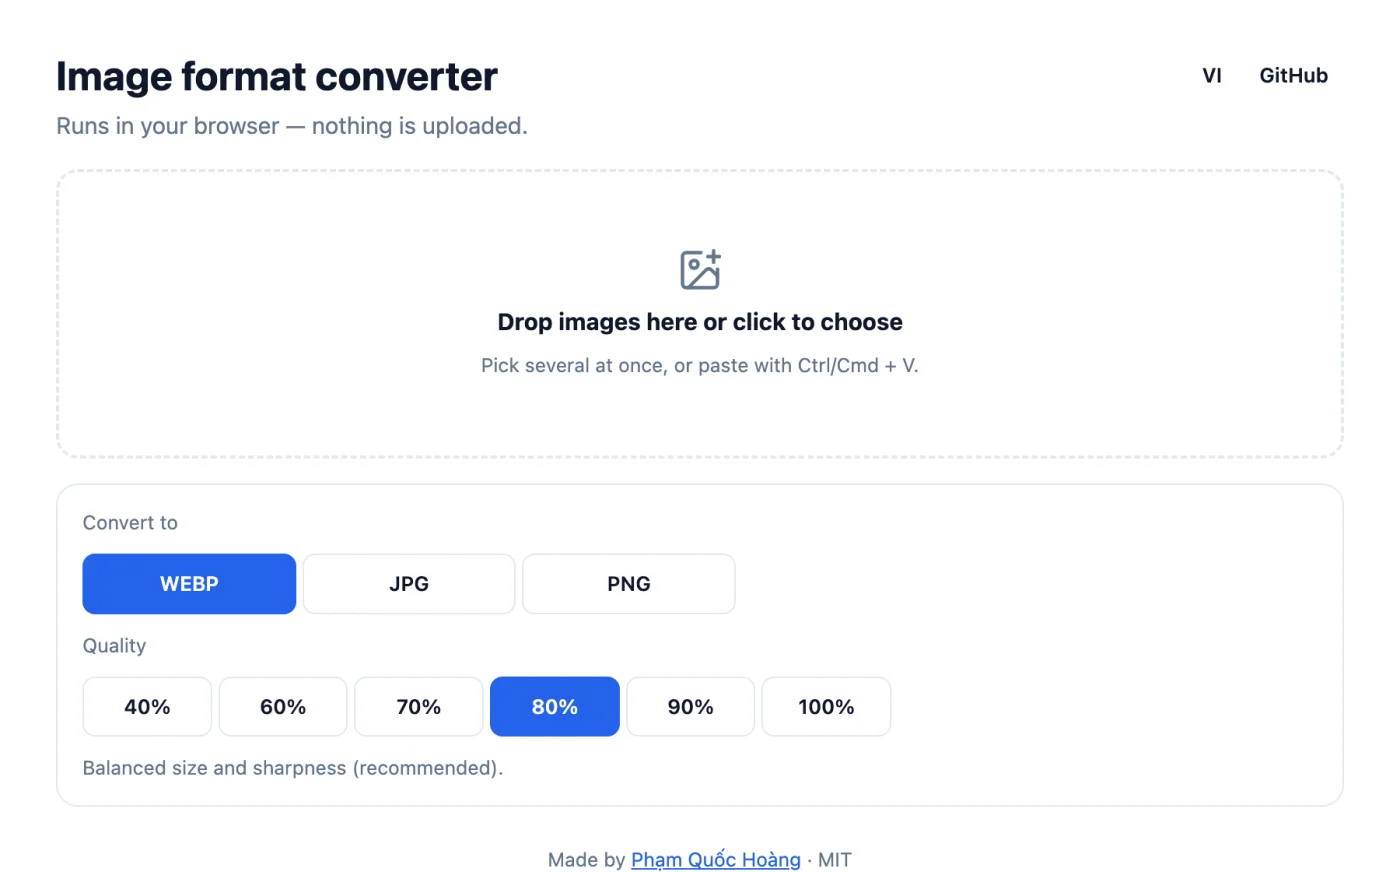
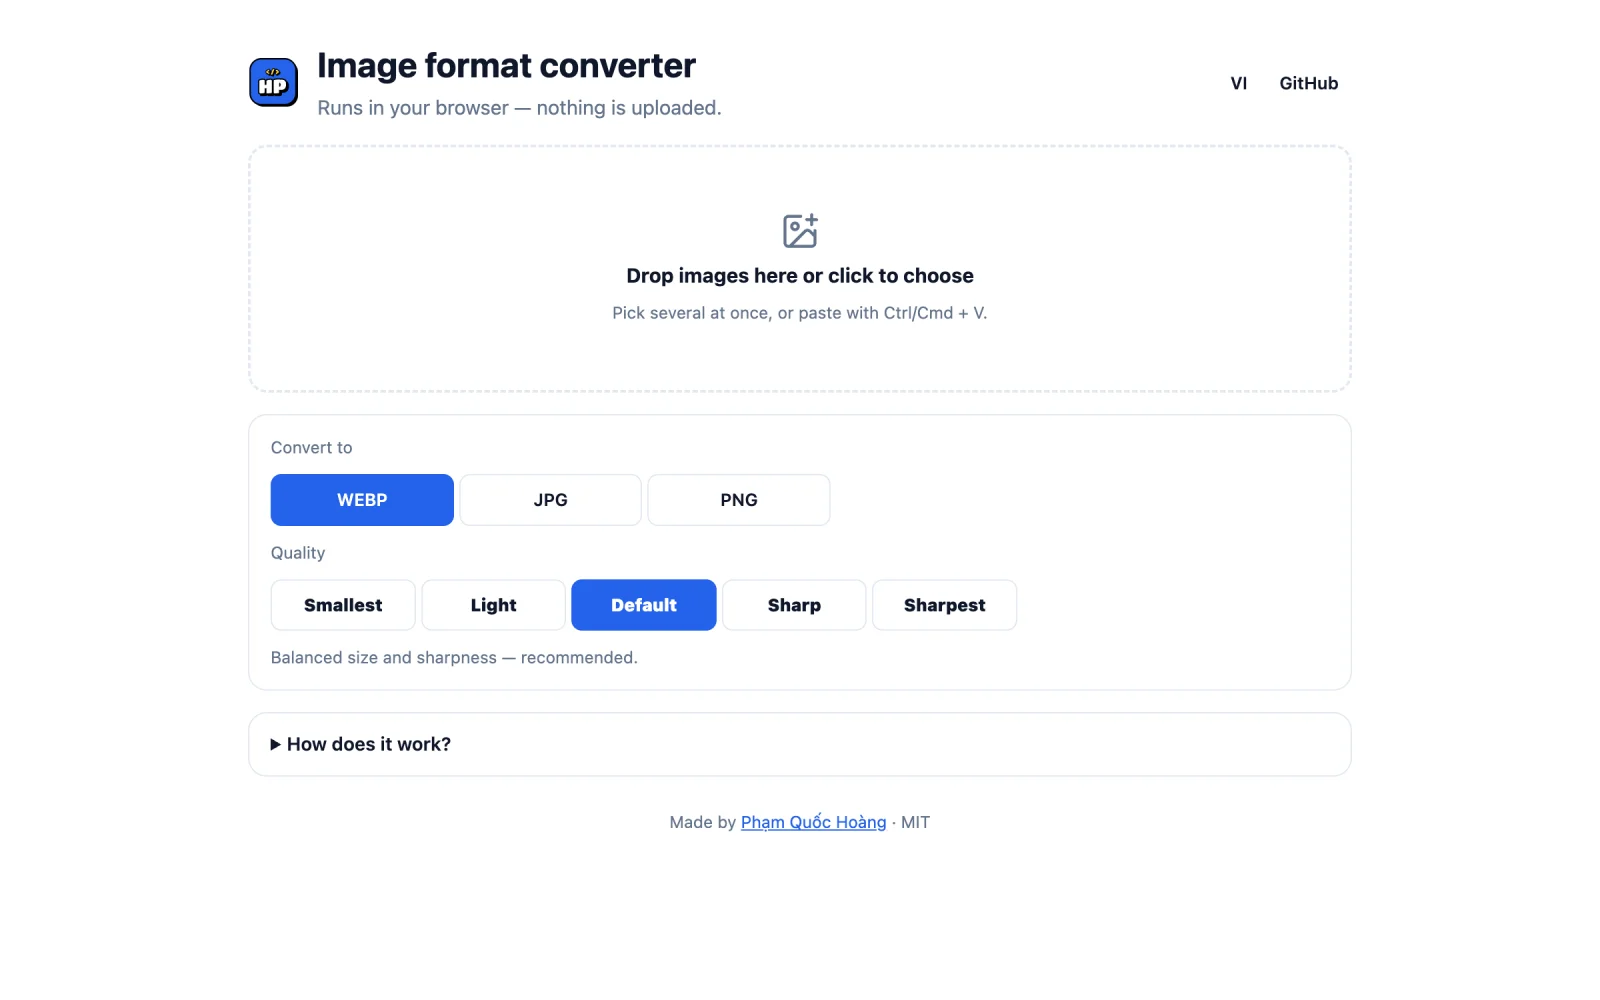
fix: retake tool screenshots from the top and anchor card images to the top

diff --git a/src/config/tools.config.ts b/src/config/tools.config.ts
@@ -13,8 +13,8 @@ export const toolsConfig: Tool[] = [
   {
     name: "Image Converter",
     description: {
-      vi: "Đổi ảnh sang WebP, JPG, PNG và nén với 6 mức chất lượng, nhiều ảnh cùng lúc, tải ZIP — chạy ngay trên trình duyệt, ảnh không được tải lên đâu cả.",
-      en: "Convert images to WebP, JPG or PNG and compress with six quality levels, in batches with ZIP download — runs in the browser, nothing is uploaded.",
+      vi: "Đổi ảnh sang WebP, JPG, PNG và nén với 5 mức chất lượng, nhiều ảnh cùng lúc, tải ZIP — chạy ngay trên trình duyệt, ảnh không được tải lên đâu cả.",
+      en: "Convert images to WebP, JPG or PNG and compress with five quality levels, in batches with ZIP download — runs in the browser, nothing is uploaded.",
     },
     status: "done",
     tags: ["JavaScript", "Canvas API", "WebP", "No build"],

diff --git a/src/components/content-card.tsx b/src/components/content-card.tsx
@@ -76,7 +76,7 @@ export default function ContentCard({ title, description, href, image, tags = []
               height={338}
               quality={100}
               alt={title}
-              className="w-full h-full object-cover scale-100 group-hover/card:scale-105 transition-all transform-gpu ease-in-out"
+              className="w-full h-full object-cover object-top scale-100 group-hover/card:scale-105 transition-all transform-gpu ease-in-out"
             />
         </div>
       )}
